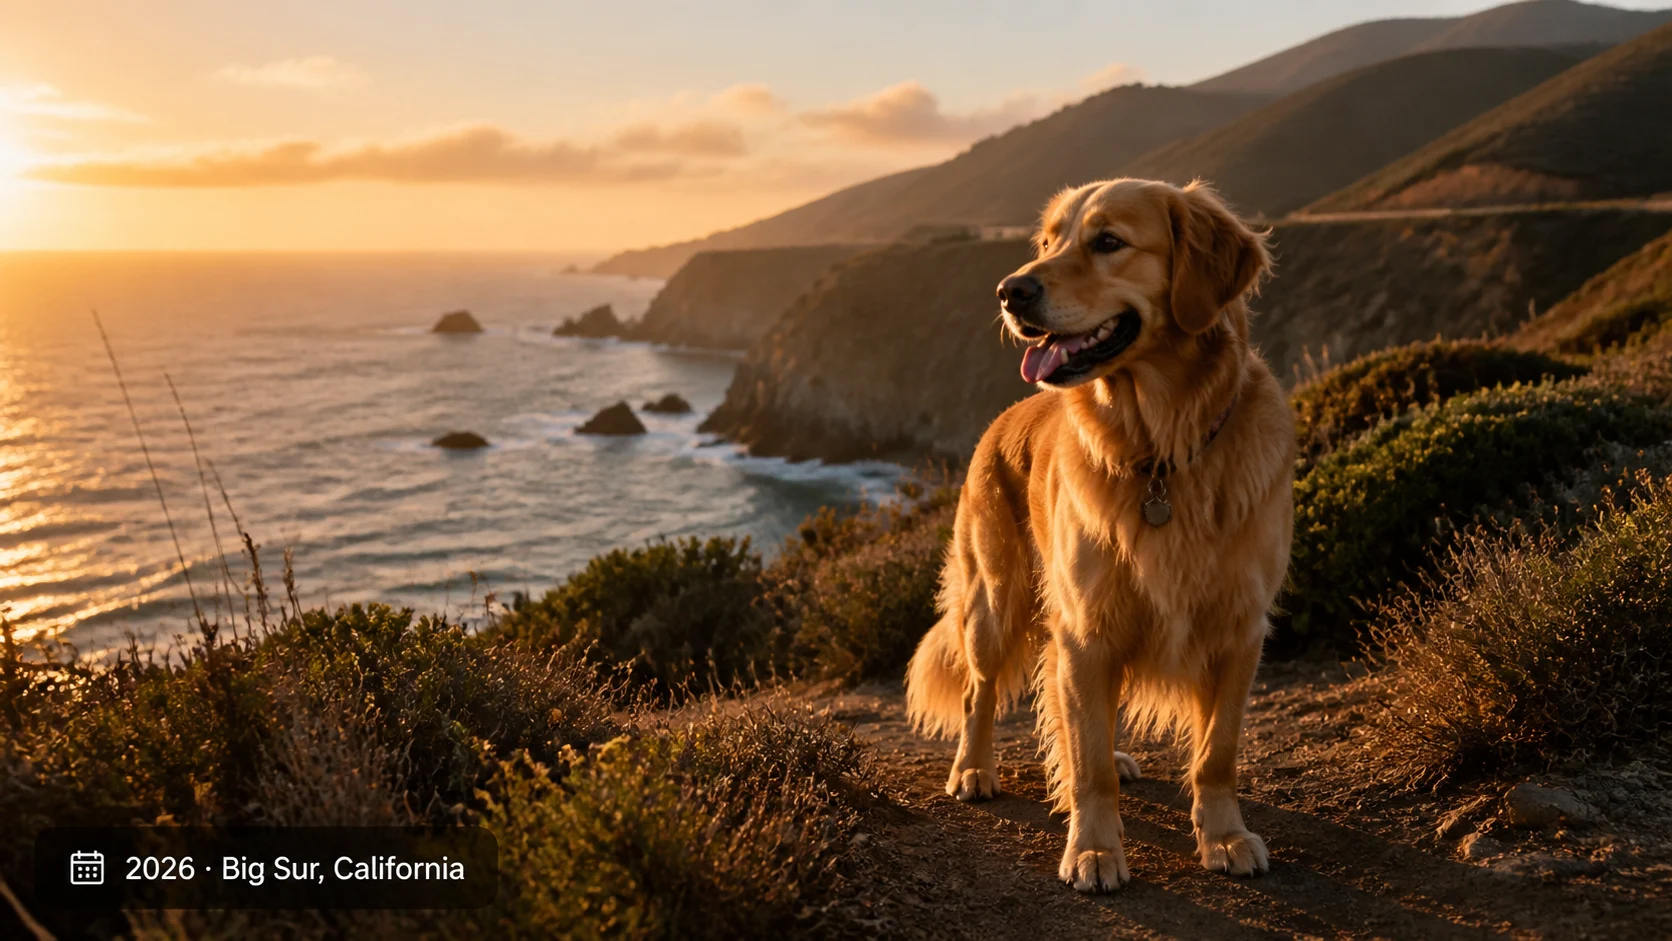
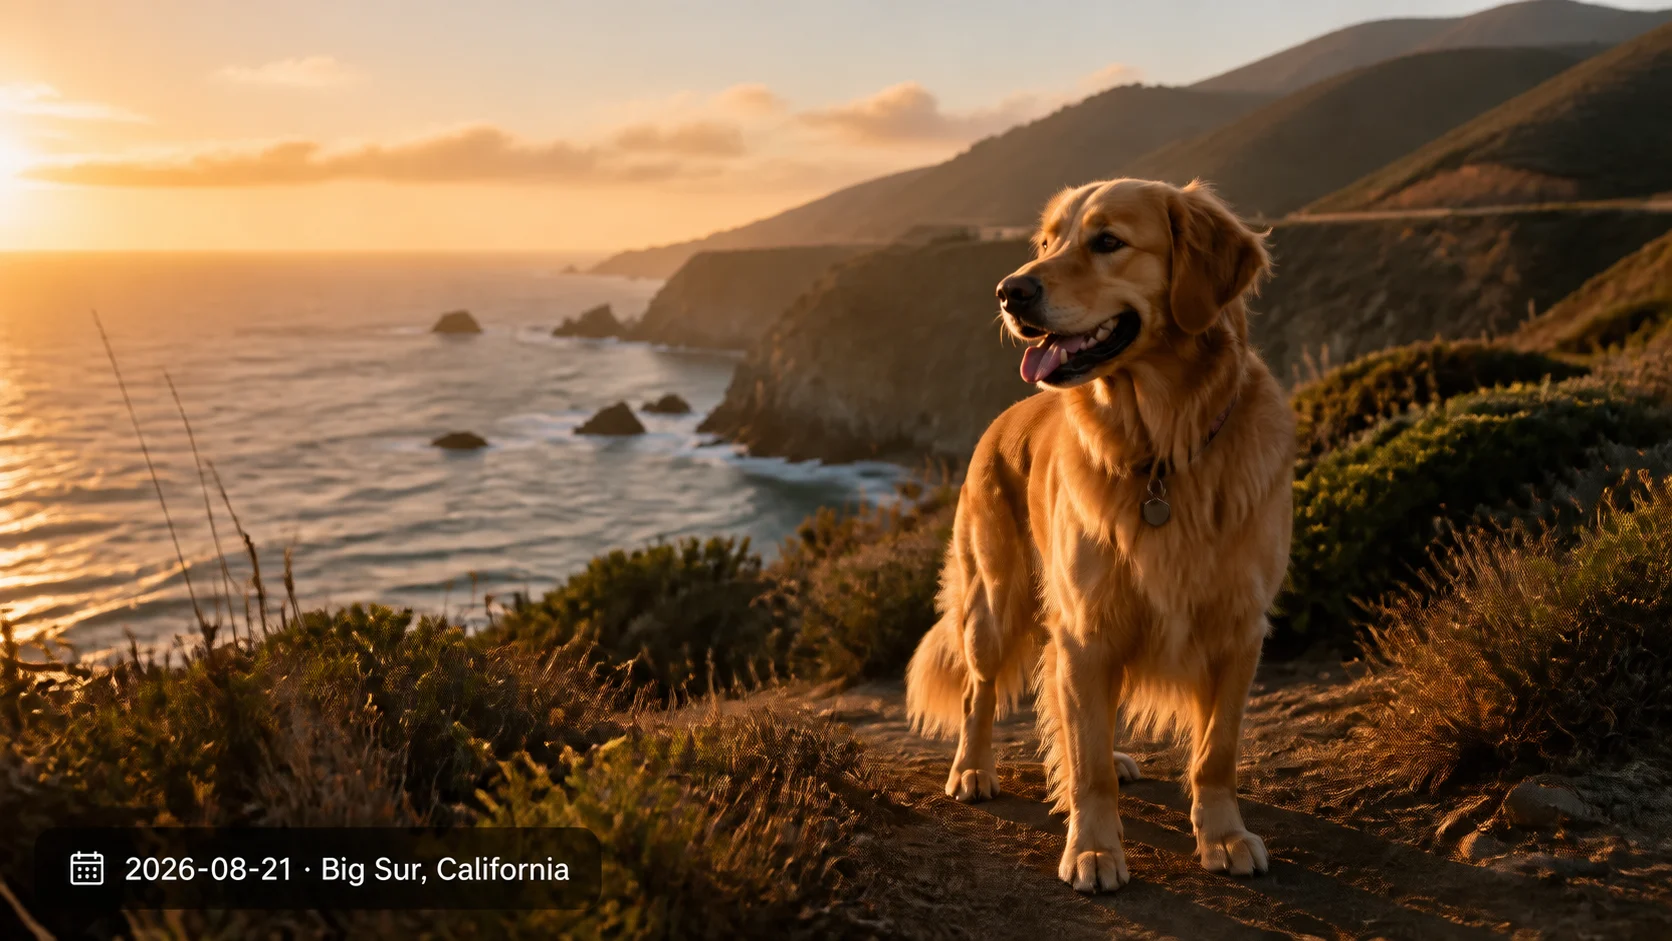
docs: show full capture date in synthetic demo

diff --git a/docs/images/README.md b/docs/images/README.md
@@ -11,6 +11,6 @@ The generation prompt was:
 > Create a polished 16:9 fullscreen digital photo-frame display containing a
 > completely synthetic, natural editorial photograph of a golden retriever on
 > a windswept coastal overlook at golden hour. Place a small white calendar icon
-> and the exact text “2026 · Big Sur, California” in a padded translucent panel
+> and the exact text “2026-08-21 · Big Sur, California” in a padded translucent panel
 > at the bottom left. Show no browser chrome, logos, watermark, identifiable
 > person, or device bezel.
